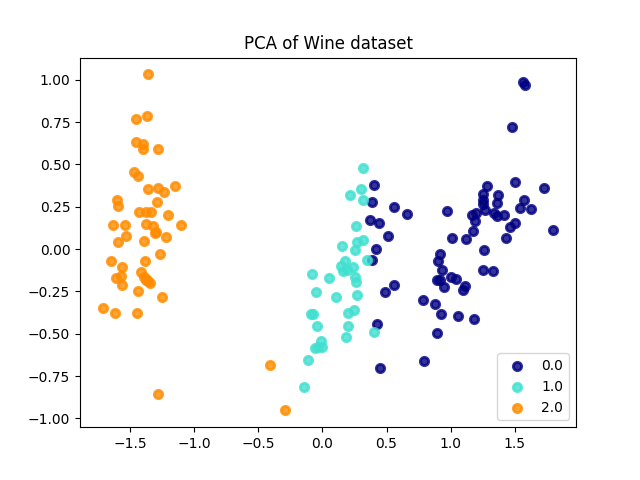
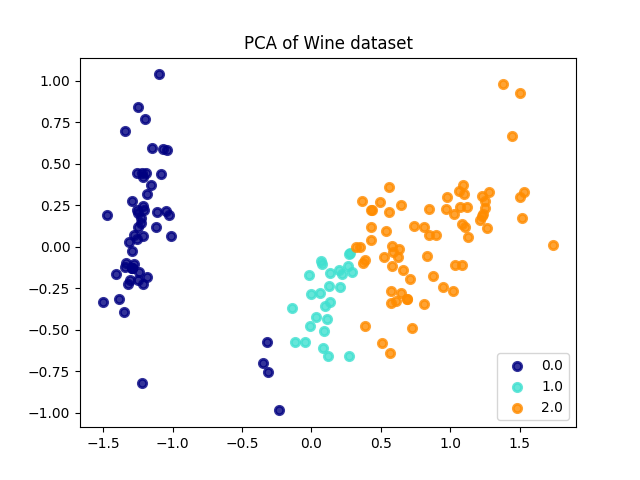
second

diff --git a/main2.py b/main2.py
@@ -1,0 +1,112 @@
+import numpy as np
+import pandas as pd 
+import random
+from sklearn.decomposition import PCA
+from sklearn.datasets import load_iris
+from sklearn.datasets import load_wine
+import matplotlib.pyplot as plt
+
+def plot(x, v, u, c):
+
+    fig = plt.figure()
+    u = np.argmax(u, axis=0)
+    x = x.T
+
+    for j in range(c):
+        plt.scatter(x[0][u == j], x[1][u == j], alpha=0.8)
+        plt.scatter(v[j][0], v[j][1], s=500 , marker="x")
+        
+    plt.savefig('wine_gk.png')
+
+
+
+class GustafsonKessel:
+    def __init__(self, data, clusters, fuzzifier, error_tolerance, iterations):
+        self.z = data
+        self.c = clusters
+        self.m = fuzzifier
+        self.e = error_tolerance
+        self.l = iterations
+        
+    def compute_distance(self, x, V, F, n, m):
+        F = F+0.00001*np.random.rand(n, n)
+        zk_V = np.expand_dims(x.reshape(x.shape[0],1,-1) - V.reshape(-1,V.shape[0],1), axis=3)
+        det = np.power(np.linalg.det(F)+0.00001, 1 / n)
+        inv = np.linalg.inv(F)
+        detinv = np.reshape(det, (-1, 1, 1)) * inv
+        temp = np.matmul(zk_V.transpose((0, 1, 3, 2)), detinv)
+        zk_V = np.squeeze(zk_V)
+        temp = np.squeeze(temp)
+        zk_V = np.einsum('ijk->jik', zk_V)
+        temp = np.einsum('ijk->jki', temp)
+        output = np.matmul(temp, zk_V).squeeze().T
+        output = output[0, :, :]
+        return np.fmax(output, 0.00001).T
+    
+    def update_partition_matrix(self, dist, m):
+        exp_dist = dist ** (2.0/m-1)
+        return exp_dist / np.sum(exp_dist)
+    
+    def compute_clusters(self, x, U, m):
+        exp_U = np.power(U,m) 
+        p1 = exp_U.dot(x.T)
+        p2 = np.sum(exp_U,  axis=1)
+        p2 = np.reshape(p2, (-1, 3))
+        return np.divide(p1,p2.T)
+    
+    def compute_cluter_covariance_matrix(self, U, x, V, m, n):
+        exp_U = np.power(U,m) 
+        mx1 = np.ones((3,n))
+        xV = x - (V.T.dot(mx1))
+        xV = xV[0].T
+        xV2 = np.multiply(xV, xV[:, np.newaxis])
+        P1 = (np.sum(exp_U) * xV2)
+        P2 = np.sum(exp_U)
+        return np.divide(P1,P2)
+    
+    def cmeans(self):
+        Datapoints,Features = self.z.shape
+
+        x = self.z.T
+
+        V = np.empty((self.l, self.c, Features))
+        V[0] = np.array(x[:,np.random.choice(x.shape[1], size = self.c)].T)
+        
+        U = np.zeros((self.l, self.c, Datapoints))
+        U[0] = np.array(x[np.random.choice(x.shape[0], size = self.c),:])
+        
+        F = np.zeros((self.l, self.c, Datapoints, Datapoints))
+
+        i = 0
+        distance = 0
+        while True:
+            
+            F[i] = self.compute_cluter_covariance_matrix(U[i], x, V[i], self.m, Datapoints)
+            
+            for j in range(self.c):
+                distance = self.compute_distance(x,V[i],F[i][j],Datapoints,Features)
+                
+            U[i] = self.update_partition_matrix(distance, self.m)            
+
+            V[i+1] = self.compute_clusters(x, U[i], self.m)
+            
+            if np.linalg.norm(U[i - 1] - U[i]) < self.e:
+                break
+                
+            i += 1
+
+        return V[i],U[i]
+
+
+d = load_wine()
+
+df= pd.DataFrame(d.data)
+
+
+gk = GustafsonKessel(d.data, 3, 1.2,0.1,200)
+
+v, u = gk.cmeans()
+
+print(v)
+
+plot(d.data, v, u, 3)

diff --git a/main.py b/main.py
@@ -92,8 +92,8 @@ data = pd.read_csv(dataname+'.csv')
 data.info()
 print(data.describe())
 
-
-df = data.drop(['Species'], axis=1)
+#Need to drop ID !
+df = data.drop(['Species', 'Id'], axis=1)
 
 df = df.apply(lambda x: hypercube(x))
 
